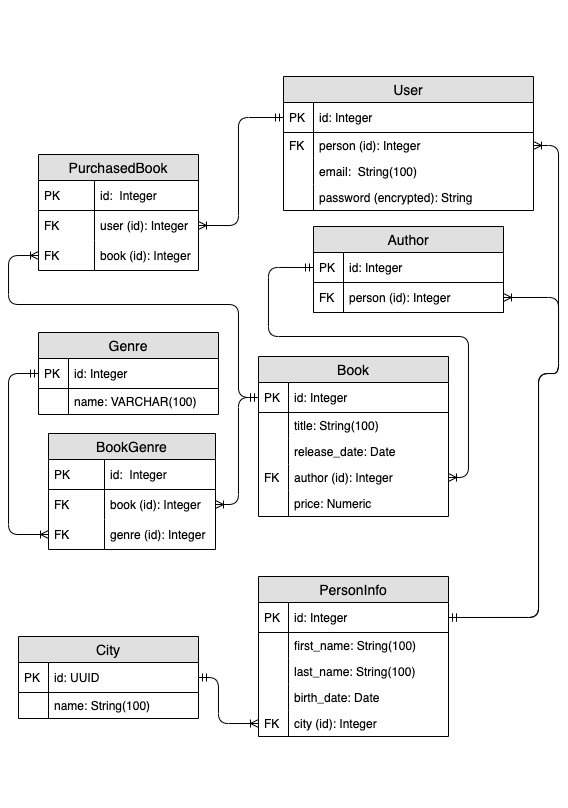
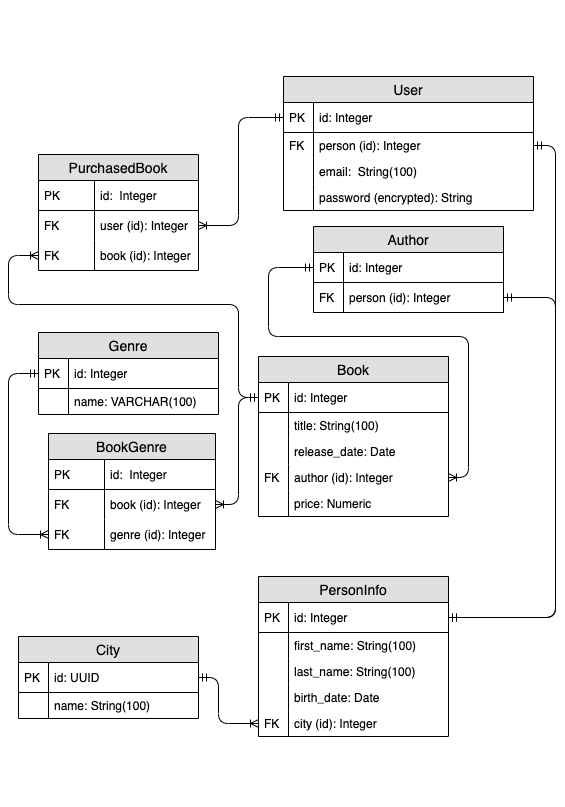
Started with complicated models CRUD - done get-endpoint for Author

diff --git a/app/crud/author.py b/app/crud/author.py
@@ -1,0 +1,35 @@
+from typing import (
+    Any,
+    Optional
+)
+
+# from fastapi.encoders import jsonable_encoder
+from sqlalchemy.future import select
+from sqlalchemy.ext.asyncio import AsyncSession
+
+from app.crud.base import DataAccessLayerBase
+from app.models.author import Author
+from app.models.person import Person
+from app.schemas.author import AuthorCreate, AuthorUpdate
+
+
+class AuthorCRUD(
+    DataAccessLayerBase[Author, AuthorCreate, AuthorUpdate]
+):
+    async def get(
+            self, session: AsyncSession, pk: Any
+    ) -> Optional[Author]:
+        async with session.begin():
+            query = select(
+                Author.id,
+                Person.first_name,
+                Person.last_name,
+                Person.birth_date,
+                Person.city_id
+            ).join(Author.person).filter_by(id=pk)
+            result = await session.execute(query)
+            instance = result.fetchone()
+        return instance
+
+
+author = AuthorCRUD(Author)

diff --git a/app/schemas/author.py b/app/schemas/author.py
@@ -1,0 +1,47 @@
+from typing import Optional
+
+from datetime import date
+from pydantic import BaseModel
+
+
+# Shared properties
+class AuthorBase(BaseModel):
+    first_name: Optional[str] = None
+    last_name: Optional[str] = None
+    birth_date: Optional[date] = None
+    city_id: Optional[int] = None
+
+
+# Properties to receive on city creation
+class AuthorCreate(AuthorBase):
+    first_name: str
+    last_name: str
+    birth_date: date
+    city_id: int
+
+
+# Properties to receive on city update
+class AuthorUpdate(AuthorBase):
+    ...
+
+
+# Properties shared by models stored in DB
+class AuthorDatabaseBase(AuthorBase):
+    id: int
+    first_name: str
+    last_name: str
+    birth_date: date
+    city_id: int
+
+    # class Config:
+    #     orm_mode = True
+
+
+# Properties to return to client
+class Author(AuthorDatabaseBase):
+    ...
+
+
+# Properties stored in DB
+class AuthorDatabase(AuthorDatabaseBase):
+    ...

diff --git a/app/api/v1/views/author.py b/app/api/v1/views/author.py
@@ -1,0 +1,27 @@
+from typing import Any
+
+from fastapi import APIRouter, Depends, HTTPException
+from sqlalchemy.ext.asyncio import AsyncSession
+
+from app import (
+    crud,
+    schemas,
+)
+from app.dependencies.session import get_session
+
+router = APIRouter()
+
+
+@router.get("/{id}", response_model=schemas.Author)
+async def get_author(
+    *,
+    session: AsyncSession = Depends(get_session),
+    pk: int,
+) -> Any:
+    """
+    Get author by primary key.
+    """
+    author = await crud.author.get(session=session, pk=pk)
+    if not author:
+        raise HTTPException(status_code=404, detail="Author not found")
+    return author

diff --git a/app/models/person.py b/app/models/person.py
@@ -17,15 +17,17 @@ class Person(Base):
     city_id = Column(Integer, ForeignKey('city.id'))
 
     # relationships
-    authors = relationship(
+    author = relationship(
         'Author',
-        back_populates='person'
+        back_populates='person',
+        uselist=False
     )
     city = relationship(
         'City',
         back_populates='persons'
     )
-    users = relationship(
+    user = relationship(
         'User',
-        back_populates='person'
+        back_populates='person',
+        uselist=False
     )

diff --git a/alembic/versions/ca6e70c006bd_initial.py b/alembic/versions/ca6e70c006bd_initial.py
@@ -1,8 +1,8 @@
-"""Initial
+"""initial
 
-Revision ID: 3c417b00b0af
+Revision ID: ca6e70c006bd
 Revises: 
-Create Date: 2022-03-13 12:38:34.580133
+Create Date: 2022-03-16 07:11:41.039022
 
 """
 from alembic import op
@@ -10,7 +10,7 @@ import sqlalchemy as sa
 
 
 # revision identifiers, used by Alembic.
-revision = '3c417b00b0af'
+revision = 'ca6e70c006bd'
 down_revision = None
 branch_labels = None
 depends_on = None

diff --git a/app/api/v1/router.py b/app/api/v1/router.py
@@ -1,8 +1,10 @@
 from fastapi import APIRouter
+from app.api.v1.views import author
 from app.api.v1.views import city
 from app.api.v1.views import genre
 
 
 router = APIRouter()
+router.include_router(author.router, prefix='/author', tags=['authors'])
 router.include_router(city.router, prefix='/cities', tags=['cities'])
 router.include_router(genre.router, prefix='/genres', tags=['genres'])

diff --git a/app/models/author.py b/app/models/author.py
@@ -14,7 +14,7 @@ class Author(Base):
     # relationships
     person = relationship(
         'Person',
-        back_populates='authors'
+        back_populates='author'
     )
     books = relationship(
         'Book',

diff --git a/app/models/user.py b/app/models/user.py
@@ -26,7 +26,7 @@ class User(Base):
     # relationships
     person = relationship(
         'Person',
-        back_populates='users'
+        back_populates='user'
     )
     books = relationship(
         'Book',

diff --git a/app/schemas/__init__.py b/app/schemas/__init__.py
@@ -1,3 +1,9 @@
+from .author import (
+    Author,
+    AuthorCreate,
+    AuthorDatabase,
+    AuthorUpdate,
+)
 from .city import (
     City,
     CityCreate,

diff --git a/app/crud/__init__.py b/app/crud/__init__.py
@@ -1,3 +1,4 @@
+from .author import author
 from .city import city
 from .genre import genre
 
